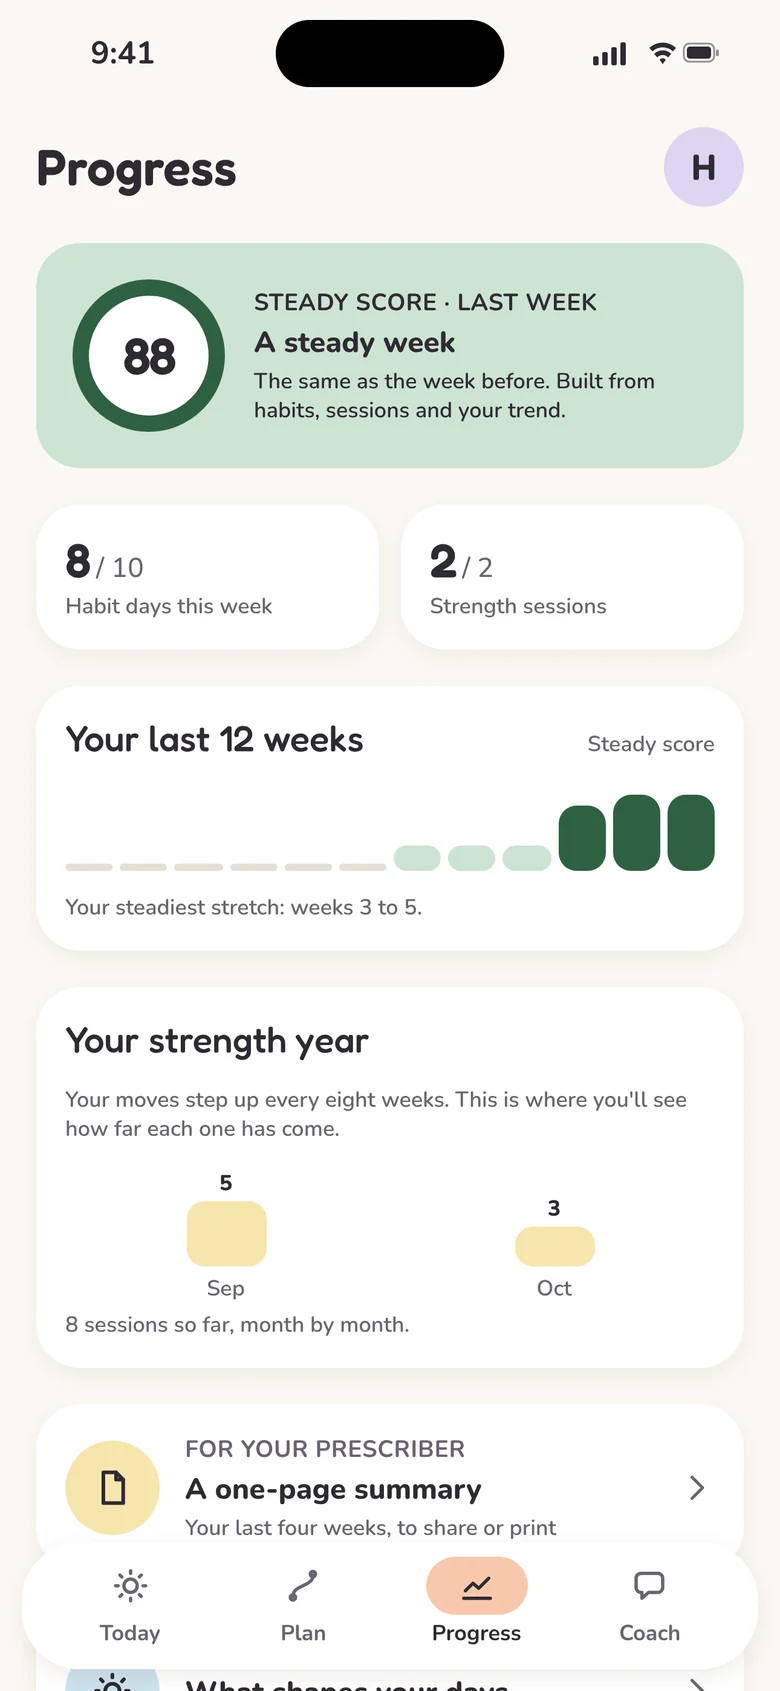
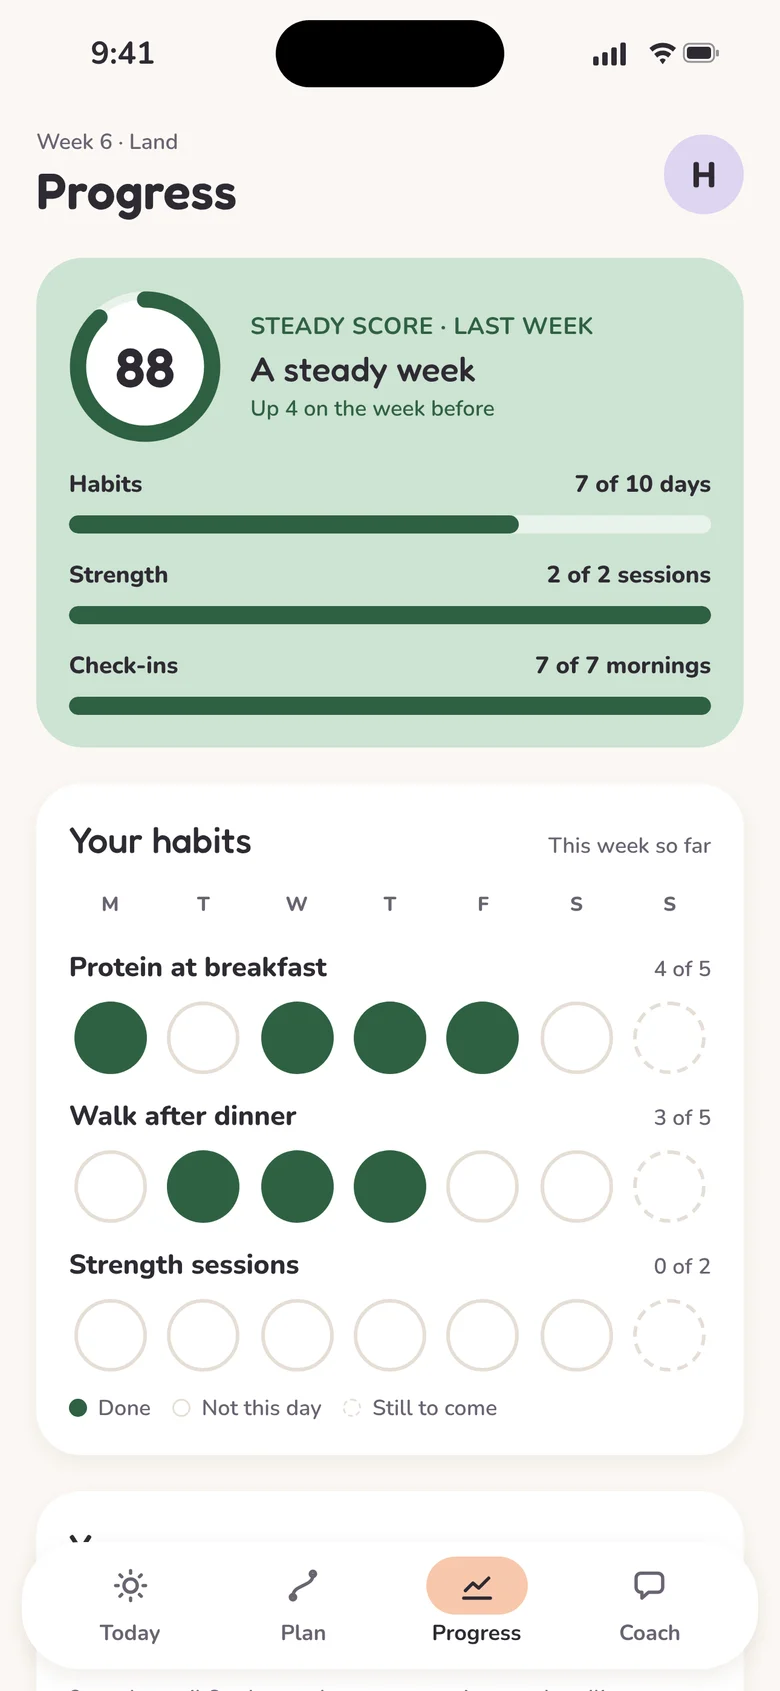
Website: new Today, Plan and Progress screens
Captured from the redesigned app (Hannah's demo, 9:41 status bar) and converted to 780 px WebP: today, today-dark,
plan (new) and progress (Habit Only mode, so no weight). All under 90 KB. Removes the old public/today.png hero image,
which nothing used.

Claude-Session: https://claude.ai/code/session_01AV66JMDACUJL34nuHYoVE1

diff --git a/apps/web/README.md b/apps/web/README.md
@@ -10,6 +10,7 @@ device's dark mode.
   still holds pre-launch sign-ups: email them once at launch, then delete it within 6 months, as the notice says.
 - `prelaunch.json`: `showPrototype: true` adds a floating **Preview the app** button and publishes the prototype
   at `/prototype` (copied in by `scripts/copy-prototype.mjs` at build time). **Set it to `false` before going live.**
-- `public/today.png` and `public/og.png`: the hero screen and the social card, rendered from the designs
+- `public/screens/`: app screens for the hero phone and the "Inside the app" fan (780 px wide WebP), and
+  `public/og.png`, the social card
 
 Run it with `pnpm dev` from the repo root. Deploying: [docs/deployment.md](../../docs/deployment.md).
